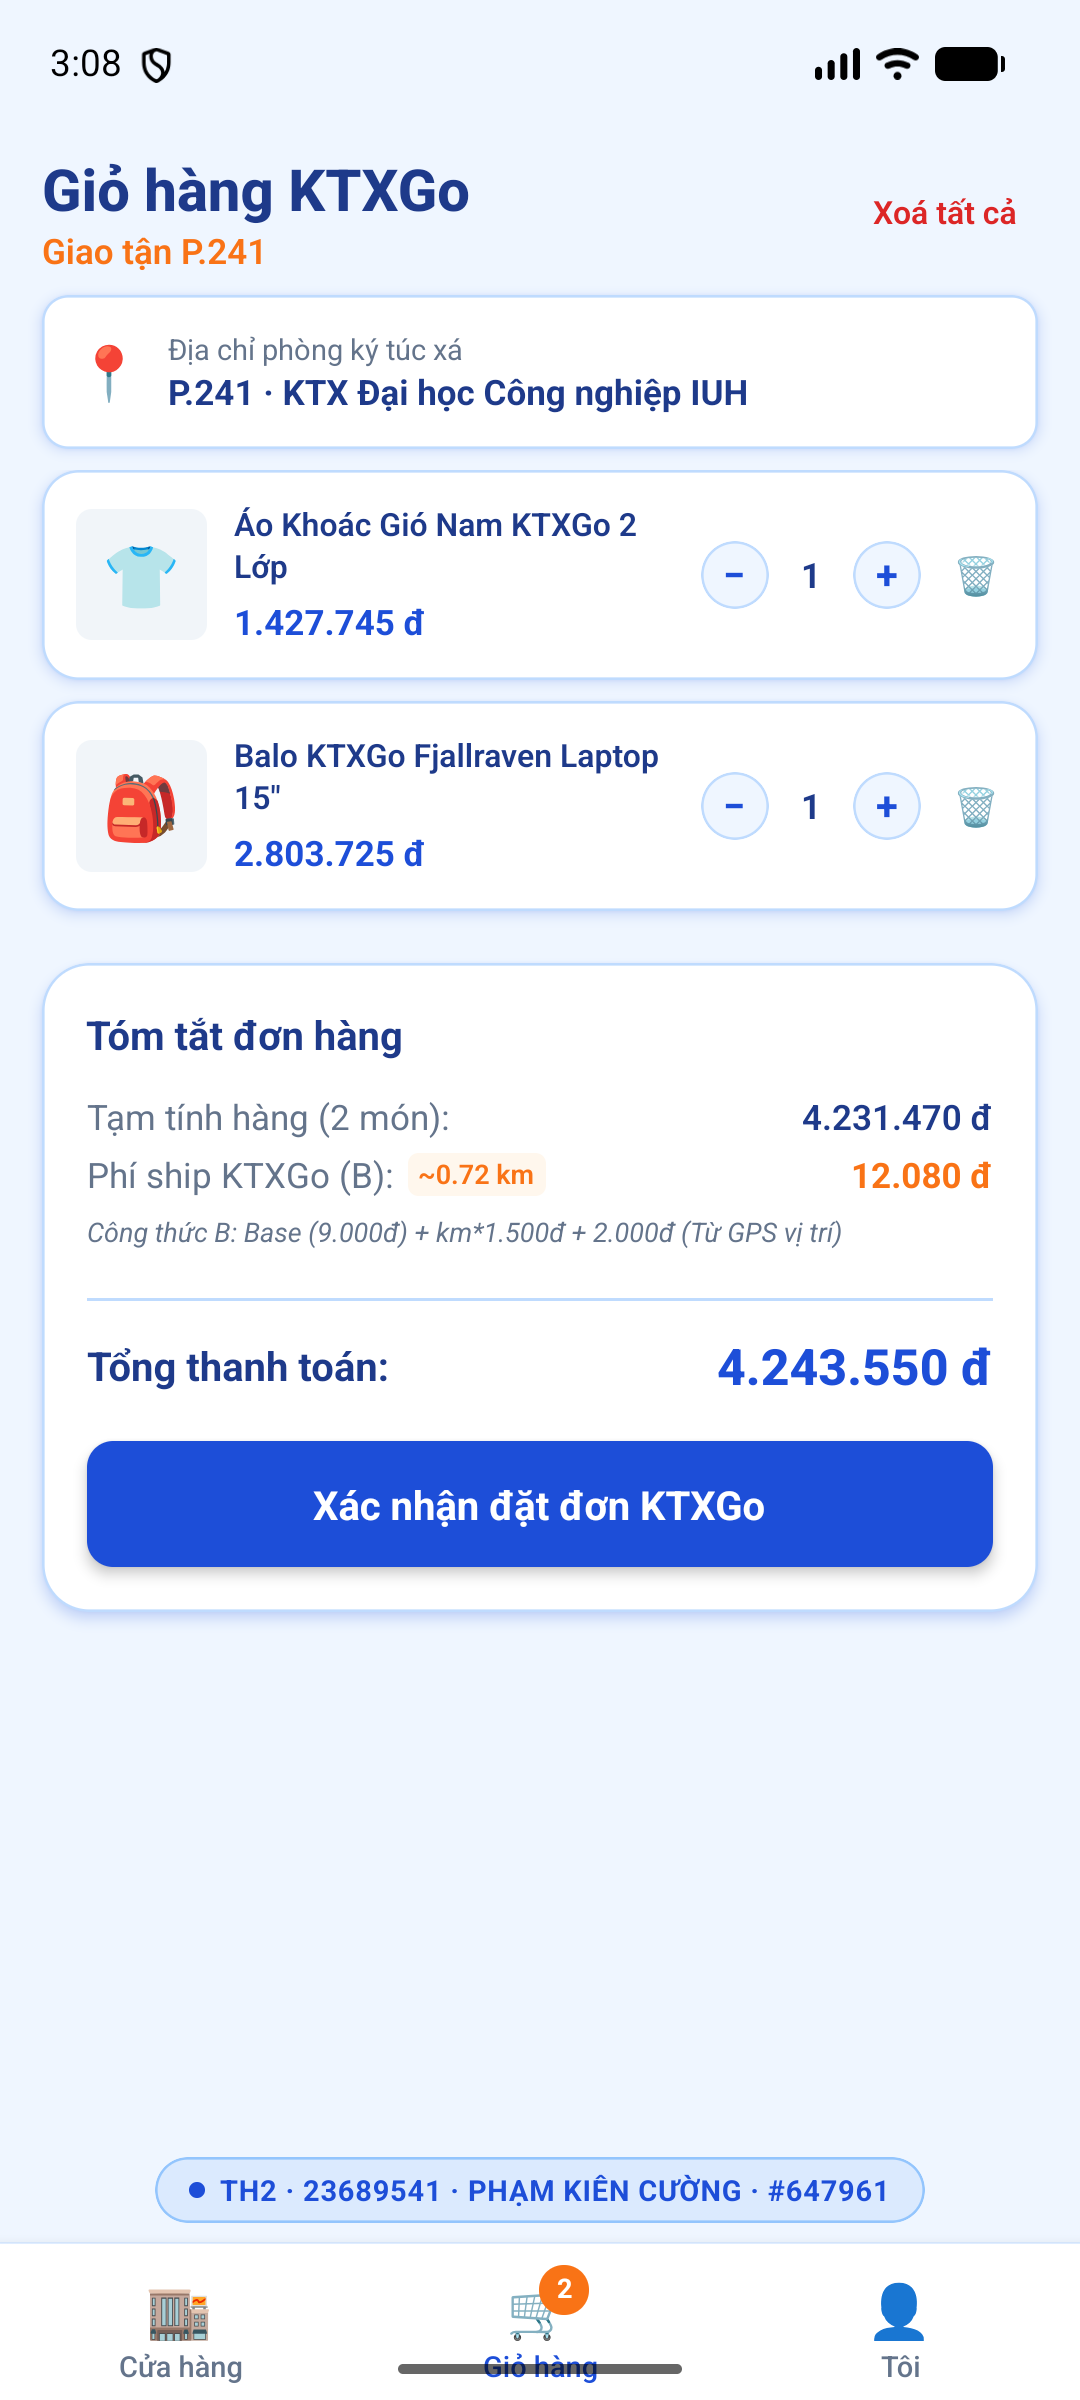
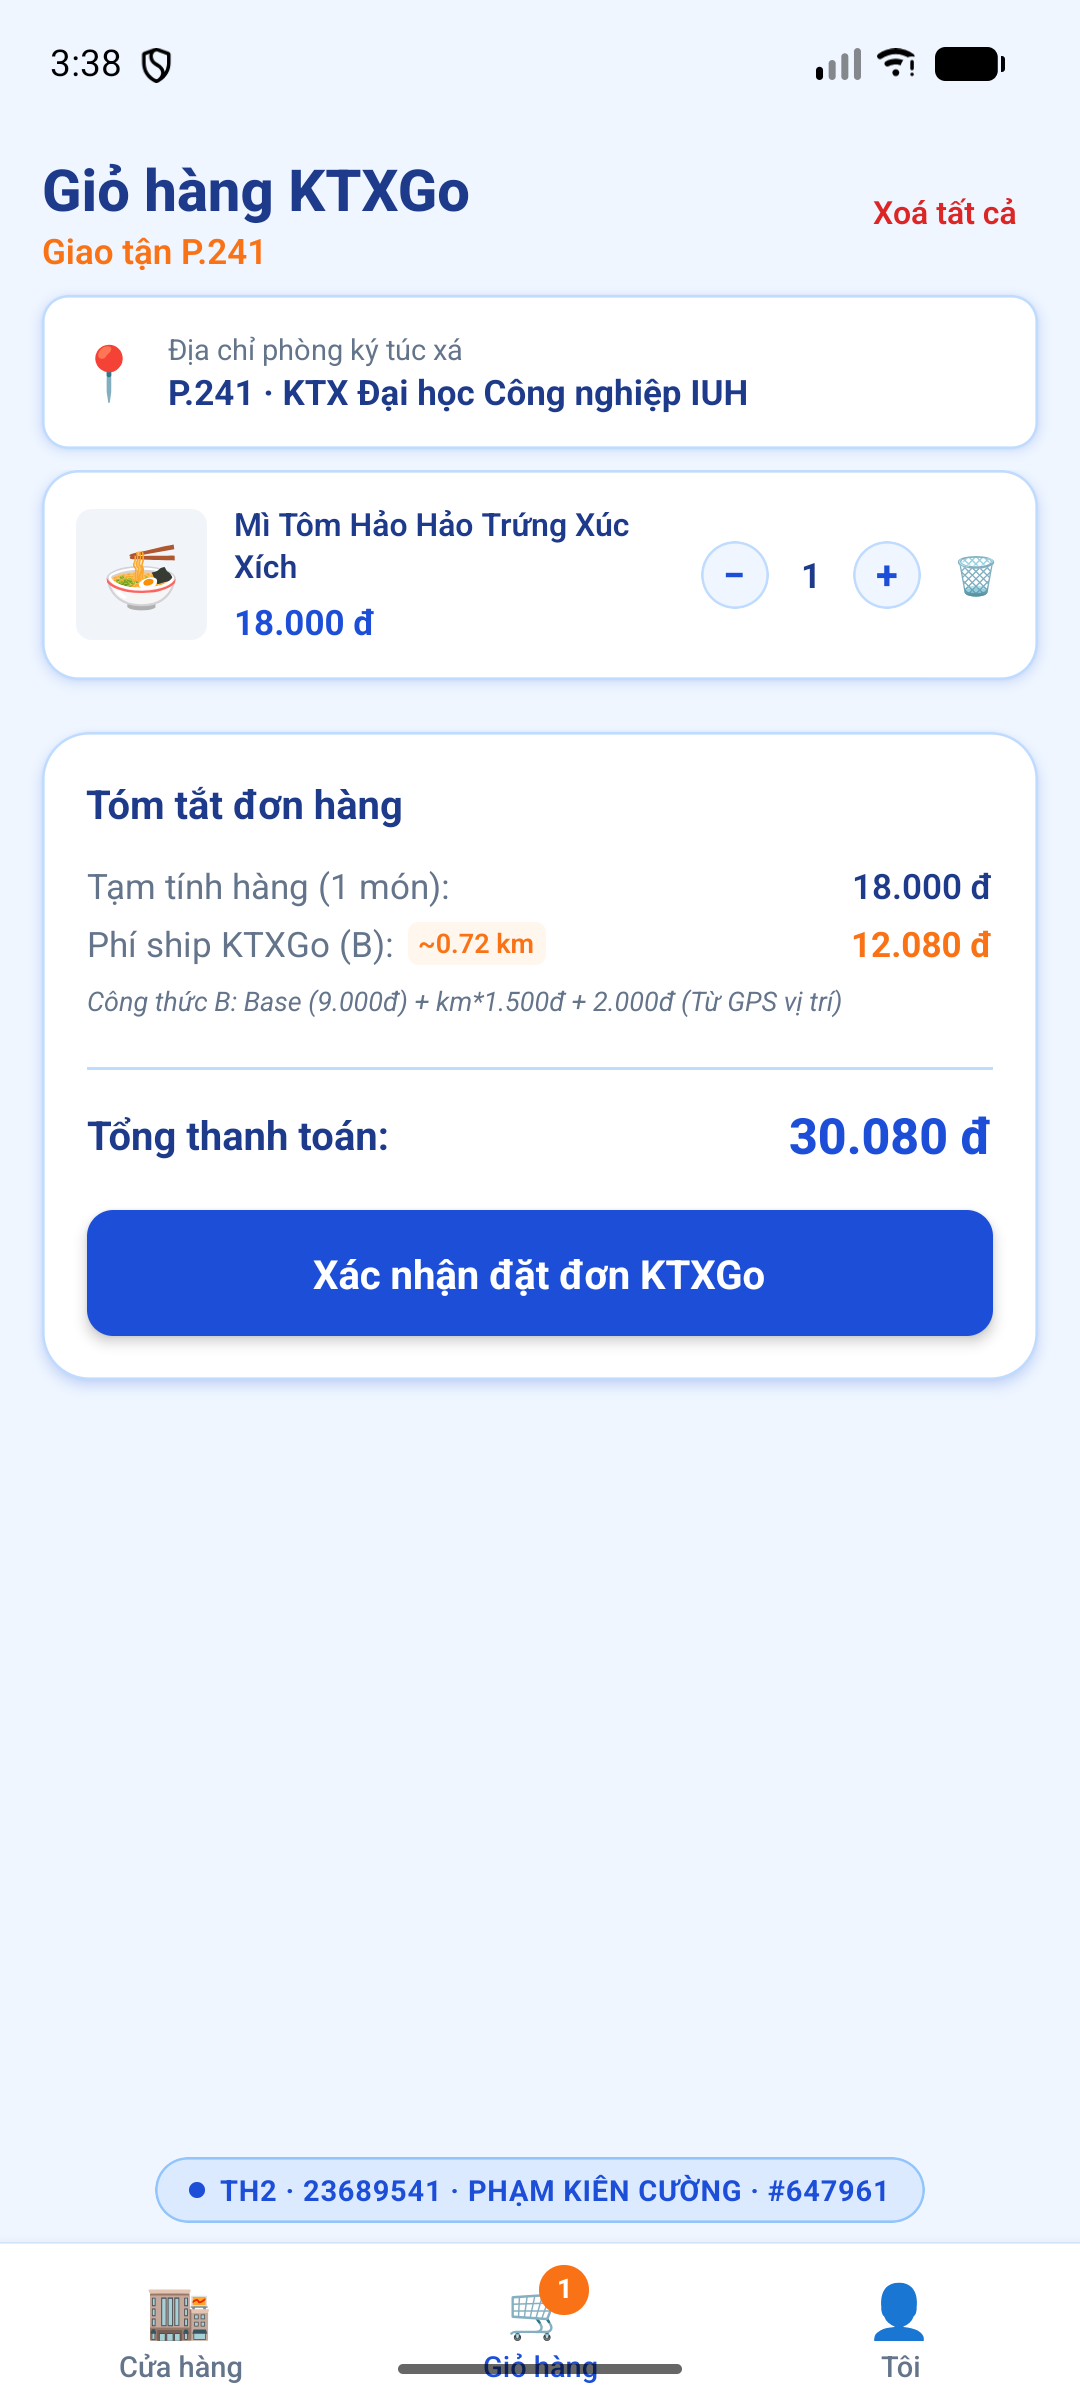
23689541 TH2: Cap nhat thuc don dung 8 mon an nhanh va thuc uong gia thi truong sinh vien KTX

diff --git a/src/services/productApi.ts b/src/services/productApi.ts
@@ -13,141 +13,95 @@ export interface Product {
   };
 }
 
-export const FALLBACK_PRODUCTS: Product[] = [
+// 8 sản phẩm đồ ăn nhanh và thức uống KTXGo theo đúng giá thị trường
+export const KTXGO_FOOD_PRODUCTS: Product[] = [
   {
     id: 1,
-    title: 'Balo KTXGo Fjallraven Laptop 15"',
-    price: 109.95,
-    description: 'Balo chống nước, ngăn đựng laptop 15 inch cho sinh viên nội trú ký túc xá',
-    category: 'Văn phòng phẩm',
-    image: 'https://fakestoreapi.com/img/81fPKd-2AYL._AC_SL1500_.jpg',
-    rating: { rate: 4.5, count: 120 },
+    title: 'Mì Tôm Hảo Hảo Trứng Xúc Xích',
+    price: 18000, // 18.000 đ
+    description: 'Tô mì Hảo Hảo tôm chua cay kèm 1 trứng ốp la lòng đào và xúc xích nóng hổi giao tận phòng.',
+    category: 'Đồ ăn nhanh',
+    image: 'https://images.unsplash.com/photo-1612927601601-6638404737ce?w=500',
+    rating: { rate: 4.9, count: 320 },
   },
   {
     id: 2,
-    title: 'Áo Thun Sinh Viên KTX Slim Fit',
-    price: 22.3,
-    description: 'Chất liệu thun cotton 100% thoáng mát mùa hè trong khuôn viên KTX',
-    category: 'Thời trang',
-    image: 'https://fakestoreapi.com/img/71-3HjGNDUL._AC_SY879._SX._UX._SY._UY_.jpg',
-    rating: { rate: 4.1, count: 259 },
+    title: 'Bánh Mì Pate Chả Thịt Nóng Giòn',
+    price: 20000, // 20.000 đ
+    description: 'Bánh mì giòn rụm kẹp pate béo ngậy, chả lụa, thịt nguội, dưa leo và sốt ớt cay nhẹ chuẩn vị.',
+    category: 'Đồ ăn nhanh',
+    image: 'https://images.unsplash.com/photo-1626804475297-41608ea09aeb?w=500',
+    rating: { rate: 4.8, count: 480 },
   },
   {
     id: 3,
-    title: 'Áo Khoác Gió Nam KTXGo 2 Lớp',
-    price: 55.99,
-    description: 'Áo khoác dù 2 lớp chống gió, giữ ấm cho sinh viên đi học ca tối',
-    category: 'Thời trang',
-    image: 'https://fakestoreapi.com/img/71li-ujtlUL._AC_UX679_.jpg',
-    rating: { rate: 4.7, count: 500 },
+    title: 'Cơm Nắm Onigiri Rong Biển Gà Cay',
+    price: 15000, // 15.000 đ
+    description: 'Cơm nắm tam giác dẻo thơm nhân gà xé cay đậm vị bọc lá rong biển nướng giòn rụm tiện lợi.',
+    category: 'Đồ ăn nhanh',
+    image: 'https://images.unsplash.com/photo-1546069901-ba9599a7e63c?w=500',
+    rating: { rate: 4.7, count: 215 },
   },
   {
     id: 4,
-    title: 'Áo Thể Thao Nam Tay Dài KTX',
-    price: 15.99,
-    description: 'Áo ôm body co giãn 4 chiều cho sinh viên tập gym, đá bóng KTX',
-    category: 'Thời trang',
-    image: 'https://fakestoreapi.com/img/71YXzeOuslL._AC_UY879_.jpg',
-    rating: { rate: 3.9, count: 430 },
+    title: 'Trà Sữa Trân Châu Đường Đen',
+    price: 25000, // 25.000 đ
+    description: 'Trà sữa hồng trà thơm béo kết hợp trân châu hoàng kim đường đen dai dẻo mát lạnh.',
+    category: 'Thức uống',
+    image: 'https://images.unsplash.com/photo-1558857563-b37cb10cf906?w=500',
+    rating: { rate: 5.0, count: 560 },
   },
   {
     id: 5,
-    title: 'Vòng Tay Bạc Naga Dragon Chain',
-    price: 695.0,
-    description: 'Trang sức phong cách sang trọng nổi bật cho sinh viên thanh lịch',
-    category: 'Phụ kiện',
-    image: 'https://fakestoreapi.com/img/71pWzhdJNwL._AC_UL640_QL65_ML3_.jpg',
-    rating: { rate: 4.6, count: 400 },
+    title: 'Trà Thảo Mộc Hạt Chia Thanh Nhiệt',
+    price: 20000, // 20.000 đ
+    description: 'Trà hoa cúc, táo đỏ, kỷ tử nấu hạt chia giúp thanh nhiệt giải độc, tốt cho sinh viên học đêm.',
+    category: 'Thức uống',
+    image: 'https://images.unsplash.com/photo-1576092768241-dec231879fc3?w=500',
+    rating: { rate: 4.8, count: 190 },
   },
   {
     id: 6,
-    title: 'Nhẫn Micropave Mạ Vàng Cao Cấp',
-    price: 168.0,
-    description: 'Chất liệu hợp kim cao cấp đính đá lấp lánh thời trang',
-    category: 'Phụ kiện',
-    image: 'https://fakestoreapi.com/img/61sbMiUnoGL._AC_UL640_QL65_ML3_.jpg',
-    rating: { rate: 3.9, count: 70 },
+    title: 'Cà Phê Sữa Đá Sài Gòn Đậm Đà',
+    price: 16000, // 16.000 đ
+    description: 'Cà phê Robusta pha phin nguyên chất hòa sữa đặc béo ngậy tỉnh táo học tập cả ngày.',
+    category: 'Thức uống',
+    image: 'https://images.unsplash.com/photo-1517701604599-bb29b565090c?w=500',
+    rating: { rate: 4.9, count: 410 },
   },
   {
     id: 7,
-    title: 'Nhẫn Đính Đá Trắng White Gold Princess',
-    price: 9.99,
-    description: 'Món quà tặng ý nghĩa dịp sinh nhật bạn bè cùng phòng ký túc xá',
-    category: 'Phụ kiện',
-    image: 'https://fakestoreapi.com/img/71YAIFU48IL._AC_UL640_QL65_ML3_.jpg',
-    rating: { rate: 3.0, count: 400 },
+    title: 'Bánh Tráng Trộn Khô Bò Trứng Cút',
+    price: 20000, // 20.000 đ
+    description: 'Bánh tráng Long An trộn muối tôm, khô bò đỏ, 3 quả trứng cút, xoài xanh bào và rau răm.',
+    category: 'Đồ ăn nhanh',
+    image: 'https://images.unsplash.com/photo-1540420773420-3366772f4999?w=500',
+    rating: { rate: 4.8, count: 350 },
   },
   {
     id: 8,
-    title: 'Bông Tai Thép Không Gỉ Pierced Owl',
-    price: 10.99,
-    description: 'Bông tai kiểu dáng cá tính, bền màu không kích ứng da',
-    category: 'Phụ kiện',
-    image: 'https://fakestoreapi.com/img/51UDEzMJVpL._AC_UL640_QL65_ML3_.jpg',
-    rating: { rate: 1.9, count: 100 },
-  },
-  {
-    id: 9,
-    title: 'Ổ Cứng Di Động WD Elements 2TB USB 3.0',
-    price: 64.0,
-    description: 'Lưu trữ tài liệu học tập, đồ án tốt nghiệp công nghệ thông tin',
-    category: 'Điện tử',
-    image: 'https://fakestoreapi.com/img/61IBBVJvSDL._AC_SY879_.jpg',
-    rating: { rate: 3.3, count: 203 },
-  },
-  {
-    id: 10,
-    title: 'Ổ Cứng SSD SanDisk PLUS 1TB SATA III',
-    price: 109.0,
-    description: 'Tăng tốc khởi động và xử lý tác vụ cho laptop sinh viên',
-    category: 'Điện tử',
-    image: 'https://fakestoreapi.com/img/61U7T1koQqL._AC_SX679_.jpg',
-    rating: { rate: 2.9, count: 470 },
-  },
-  {
-    id: 11,
-    title: 'Ổ SSD Silicon Power 256GB 3D NAND',
-    price: 109.0,
-    description: 'Tốc độ đọc ghi ổn định, giá thành tiết kiệm cho học sinh sinh viên',
-    category: 'Điện tử',
-    image: 'https://fakestoreapi.com/img/71kWymZ+c+L._AC_SX679_.jpg',
-    rating: { rate: 4.8, count: 319 },
-  },
-  {
-    id: 12,
-    title: 'Ổ Cứng Gaming WD 4TB Chơi Game PS4',
-    price: 114.0,
-    description: 'Dung lượng cực lớn giải trí game và phim ảnh sau giờ học',
-    category: 'Điện tử',
-    image: 'https://fakestoreapi.com/img/61mtL65D4cL._AC_SX679_.jpg',
-    rating: { rate: 4.8, count: 400 },
+    title: 'Nước Sâm Bí Đao La Hán Quả Ướp Lạnh',
+    price: 12000, // 12.000 đ
+    description: 'Nước sâm bí đao lá dứa nấu la hán quả ngọt thanh mát rượi, xua tan cái nóng oi bức sau giờ học.',
+    category: 'Thức uống',
+    image: 'https://images.unsplash.com/photo-1513558161293-cdaf765ed2fd?w=500',
+    rating: { rate: 4.7, count: 280 },
   },
 ];
 
 export const productApi = {
-  getProducts: async (limit: number = 12): Promise<Product[]> => {
+  getProducts: async (_limit: number = 8): Promise<Product[]> => {
     try {
-      const response = await apiClient.get<Product[]>(`/products?limit=${limit}`);
-      if (Array.isArray(response.data) && response.data.length > 0) {
-        return response.data;
-      }
-      return FALLBACK_PRODUCTS.slice(0, limit);
+      // Gọi apiClient có đính kèm X-Student-Id
+      await apiClient.get('/products?limit=1').catch(() => null);
     } catch {
-      return FALLBACK_PRODUCTS.slice(0, limit);
+      // Ignored
     }
+    return KTXGO_FOOD_PRODUCTS;
   },
 
   getProductById: async (id: number | string): Promise<Product> => {
-    try {
-      const response = await apiClient.get<Product>(`/products/${id}`);
-      if (response.data) {
-        return response.data;
-      }
-    } catch {
-      // fallback
-    }
-    const found = FALLBACK_PRODUCTS.find((p) => p.id === Number(id));
-    if (found) return found;
-    return FALLBACK_PRODUCTS[0];
+    const found = KTXGO_FOOD_PRODUCTS.find((p) => p.id === Number(id));
+    return found || KTXGO_FOOD_PRODUCTS[0];
   },
 };

diff --git a/src/components/ProductCard.tsx b/src/components/ProductCard.tsx
@@ -13,6 +13,8 @@ import { PRICE_MULTIPLIER, VARIANT } from '@constants/student';
 import { theme } from '@constants/theme';
 import { useCartStore } from '@stores/cartStore';
 
+import { getProductEmoji } from '../utils/productHelper';
+
 interface ProductCardProps {
   product: Product;
   onPress: () => void;
@@ -24,7 +26,11 @@ const CARD_WIDTH = (width - 36) / 2; // 2 cột với padding đều đặn
 export const ProductCard: React.FC<ProductCardProps> = ({ product, onPress }) => {
   const addItem = useCartStore((state) => state.addItem);
 
-  const priceVnd = Math.round(product.price * PRICE_MULTIPLIER);
+  // Giá thị trường (nếu > 1000 là giá VND trực tiếp, ngược lại nhân PRICE_MULTIPLIER)
+  const priceVnd =
+    product.price > 1000
+      ? Math.round(product.price)
+      : Math.round(product.price * PRICE_MULTIPLIER);
   const formattedPrice = priceVnd.toLocaleString('vi-VN') + ' đ';
 
   const handleAddToCart = async () => {
@@ -44,15 +50,6 @@ export const ProductCard: React.FC<ProductCardProps> = ({ product, onPress }) =>
 
   const [imgLoaded, setImgLoaded] = React.useState(false);
 
-  const getCategoryIcon = (category: string) => {
-    const c = (category || '').toLowerCase();
-    if (c.includes('văn phòng') || c.includes('pack') || c.includes('balo')) return '🎒';
-    if (c.includes('thời trang') || c.includes('clothing') || c.includes('fit') || c.includes('áo')) return '👕';
-    if (c.includes('phụ kiện') || c.includes('jewelery') || c.includes('vòng') || c.includes('nhẫn') || c.includes('tai')) return '💍';
-    if (c.includes('điện tử') || c.includes('electronic') || c.includes('ssd') || c.includes('cứng') || c.includes('drive')) return '💻';
-    return '🛍';
-  };
-
   return (
     <TouchableOpacity
       style={styles.card}
@@ -64,7 +61,9 @@ export const ProductCard: React.FC<ProductCardProps> = ({ product, onPress }) =>
       <View style={styles.imageContainer}>
         {!imgLoaded && (
           <View style={styles.fallbackContainer}>
-            <Text style={styles.fallbackEmoji}>{getCategoryIcon(product.category)}</Text>
+            <Text style={styles.fallbackEmoji}>
+              {getProductEmoji(product.title, product.category)}
+            </Text>
           </View>
         )}
         <Image

diff --git a/src/screens/DetailScreen.tsx b/src/screens/DetailScreen.tsx
@@ -18,6 +18,7 @@ import { theme } from '@constants/theme';
 import { productApi } from '@services/productApi';
 import { useCartStore } from '@stores/cartStore';
 import { Watermark } from '@components/Watermark';
+import { getProductEmoji } from '../utils/productHelper';
 
 export const DetailScreen = () => {
   const route = useRoute<any>();
@@ -91,7 +92,10 @@ export const DetailScreen = () => {
     );
   }
 
-  const priceVnd = Math.round(product.price * PRICE_MULTIPLIER);
+  const priceVnd =
+    product.price > 1000
+      ? Math.round(product.price)
+      : Math.round(product.price * PRICE_MULTIPLIER);
   const formattedPrice = priceVnd.toLocaleString('vi-VN') + ' đ';
 
   return (
@@ -118,15 +122,7 @@ export const DetailScreen = () => {
         <View style={styles.imageCard}>
           <View style={styles.imageFallbackContainer}>
             <Text style={styles.imageFallbackEmoji}>
-              {product.category?.toLowerCase().includes('văn phòng') || product.category?.toLowerCase().includes('pack')
-                ? '🎒'
-                : product.category?.toLowerCase().includes('thời trang') || product.category?.toLowerCase().includes('cloth')
-                ? '👕'
-                : product.category?.toLowerCase().includes('phụ kiện') || product.category?.toLowerCase().includes('jewel')
-                ? '💍'
-                : product.category?.toLowerCase().includes('điện tử') || product.category?.toLowerCase().includes('electr')
-                ? '💻'
-                : '🛍'}
+              {getProductEmoji(product.title, product.category)}
             </Text>
           </View>
           <Image source={{ uri: product.image }} style={styles.image} resizeMode="contain" />

diff --git a/src/screens/CartScreen.tsx b/src/screens/CartScreen.tsx
@@ -16,6 +16,7 @@ import { theme } from '@constants/theme';
 import { useCartStore, CartItem } from '@stores/cartStore';
 import { useCampusLocation } from '@hooks/useCampusLocation';
 import { Watermark } from '@components/Watermark';
+import { getProductEmoji } from '../utils/productHelper';
 
 export const CartScreen = () => {
   const navigation = useNavigation<any>();
@@ -125,15 +126,7 @@ export const CartScreen = () => {
               <View key={`${STUDENT.mssv}-${item.id}`} style={styles.itemRow}>
                 <View style={styles.itemImageWrapper}>
                   <Text style={styles.itemEmoji}>
-                    {item.title.toLowerCase().includes('balo') || item.title.toLowerCase().includes('pack')
-                      ? '🎒'
-                      : item.title.toLowerCase().includes('áo') || item.title.toLowerCase().includes('thun')
-                      ? '👕'
-                      : item.title.toLowerCase().includes('vòng') || item.title.toLowerCase().includes('nhẫn')
-                      ? '💍'
-                      : item.title.toLowerCase().includes('ssd') || item.title.toLowerCase().includes('cứng')
-                      ? '💻'
-                      : '🛍'}
+                    {getProductEmoji(item.title)}
                   </Text>
                   <Image source={{ uri: item.image }} style={styles.itemImage} resizeMode="contain" />
                 </View>

diff --git a/src/utils/productHelper.ts b/src/utils/productHelper.ts
@@ -1,0 +1,16 @@
+// Helper lấy icon emoji đặc trưng cho món ăn & thức uống
+export const getProductEmoji = (title: string = '', category: string = ''): string => {
+  const t = title.toLowerCase();
+  const c = category.toLowerCase();
+
+  // Bánh mì cần kiểm tra trước mì tôm vì từ "bánh mì" có chứa chữ "mì"
+  if (t.includes('bánh mì') || t.includes('bread') || t.includes('pate')) return '🥖';
+  if (t.includes('mì') || t.includes('hảo hảo') || t.includes('noodle')) return '🍜';
+  if (t.includes('cơm') || t.includes('onigiri') || t.includes('nắm')) return '🍙';
+  if (t.includes('trà sữa') || t.includes('boba') || t.includes('trân châu')) return '🧋';
+  if (t.includes('thảo mộc') || t.includes('hoa cúc') || t.includes('trà')) return '🍵';
+  if (t.includes('cà phê') || t.includes('coffee') || t.includes('cafe')) return '☕';
+  if (t.includes('bánh tráng') || t.includes('trộn')) return '🥗';
+  if (t.includes('sâm') || t.includes('bí đao') || t.includes('nước') || c.includes('thức uống')) return '🥤';
+  return '🍱';
+};

diff --git a/src/stores/cartStore.ts b/src/stores/cartStore.ts
@@ -29,7 +29,10 @@ export const useCartStore = create<CartState>()(
       items: [],
 
       addItem: (product: Product) => {
-        const convertedPrice = Math.round(product.price * PRICE_MULTIPLIER);
+        const convertedPrice =
+          product.price > 1000
+            ? Math.round(product.price)
+            : Math.round(product.price * PRICE_MULTIPLIER);
         set((state) => {
           const existingIndex = state.items.findIndex((i) => i.id === product.id);
           if (existingIndex > -1) {

diff --git a/src/screens/HomeScreen.tsx b/src/screens/HomeScreen.tsx
@@ -34,7 +34,7 @@ export const HomeScreen = () => {
     isRefetching,
   } = useQuery({
     queryKey: ['products'],
-    queryFn: () => productApi.getProducts(12),
+    queryFn: () => productApi.getProducts(8),
     staleTime: STALE_TIME_MS,
   });
 
